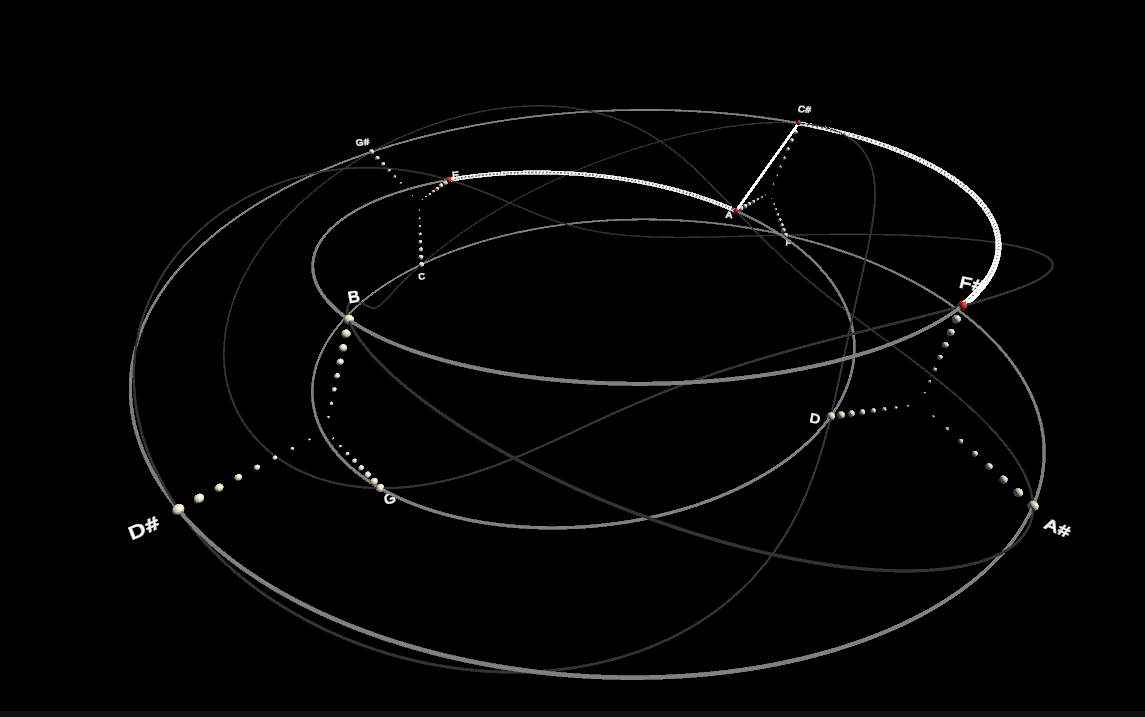
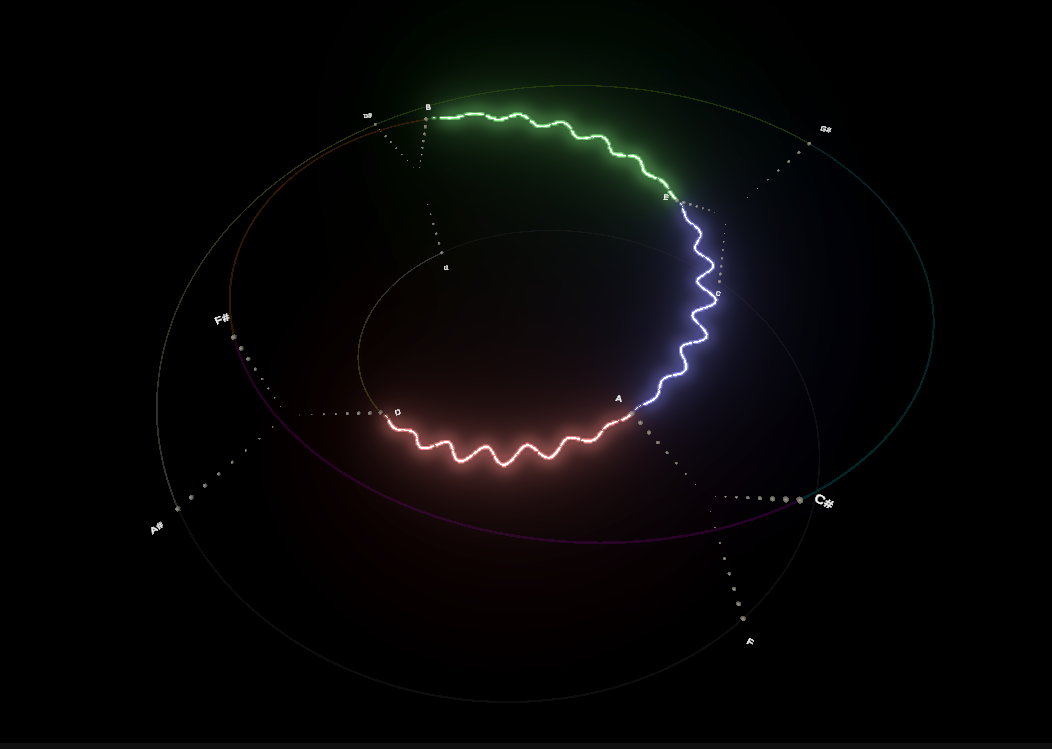
colors wip

diff --git a/Assets/Main.cs b/Assets/Main.cs
@@ -14,7 +14,7 @@ using Util;
 public class Main : MonoBehaviour
 {
     public Material BloomMat;
-    
+
     static readonly int Color1 = Shader.PropertyToID("_Color");
     public string midiPath;
 
@@ -23,14 +23,14 @@ public class Main : MonoBehaviour
     const int Tones = 12;
     const int Octaves = 8;
     const int Sides = 3;
-    const float EdgeLength = 0.67f;
+    const float EdgeLength = 1.2f;
     const float Rad = 1f;
     const int Sections = Tones / Sides;
 
     readonly List<Note> notes = new();
     readonly List<TextBox> noteTextLabels = new();
 
-    LineRenderer fifthsLineRenderer;
+    readonly List<LineRenderer> fifthsLineRenderer = new();
     LineRenderer chromaticLineRenderer;
 
     readonly Dictionary<ulong, Chord> chordLineRenderers = new();
@@ -39,12 +39,43 @@ public class Main : MonoBehaviour
 
     int currentKey = 0; // A
 
+    static Color darkGrey => new(0.2f, 0.2f, 0.2f);
+
+    readonly Color[] descendingFifthColors =
+    {
+        // order from key - 1, descending through fifths
+        // Major
+        Color.red,
+        // Transient
+        Color.yellow,
+        darkGrey,
+        darkGrey,
+        darkGrey,
+        Color.yellow,
+        Color.Lerp(Color.yellow, Color.green, 0.5f),
+        // Minor
+        Color.Lerp(Color.green, Color.blue, 0.5f),
+        Color.Lerp(Color.blue, Color.red, 0.5f),
+        Color.Lerp(Color.red, Color.yellow, 0.5f),
+        // Major
+        Color.green,
+        Color.blue
+    };
+
+    readonly Dictionary<int, int> fifthToColor = new();
     readonly Dictionary<int, int> scaleToFifths = new();
 
     CameraControl cameraControl;
 
     void Awake()
     {
+        int count = 7;
+        for (int i = Tones - 1; i >= 0; i--)
+        {
+            fifthToColor.Add(count, i);
+            count = Roll(count, -5);
+        }
+
         for (int j = 0; j < Octaves; j++)
         {
             // set the notes in 5th intervals evenly from 0 to 1 on the umbilical
@@ -78,13 +109,13 @@ public class Main : MonoBehaviour
             }
         }
 
-        Material fifthsMat = new(Shader.Find("Unlit/Color"))
+        for (int i = 0; i < Tones; i++)
         {
-            color = new Color(0.5f, 0.5f, 0.5f)
-        };
-        GameObject fifthsGo = new("fifths");
-        fifthsGo.transform.SetParent(transform, false);
-        fifthsLineRenderer = NewLineRenderer(fifthsGo, fifthsMat, .01f, true);
+            Material fifthsMat = new Material(Shader.Find("Legacy Shaders/Particles/Alpha Blended Premultiply"));
+            GameObject fifthsGo = new("fifths");
+            fifthsGo.transform.SetParent(transform, false);
+            fifthsLineRenderer.Add(NewLineRenderer(fifthsGo, fifthsMat, .01f, false));
+        }
 
         Material chromaticMat = new(Shader.Find("Unlit/Color"))
         {
@@ -116,21 +147,57 @@ public class Main : MonoBehaviour
 
     void SetUmbilic()
     {
-        List<Vector3> umbilicalList = new();
         List<Vector3> chromaticList = new();
+        const float resolution = 0.001f;
         const int ratio = Sides * 2 - 1;
-        for (float t = 0; t < 1; t += .001f)
+        for (float t = 0; t < 1; t += resolution)
         {
-            umbilicalList.Add(UmbilicTorus.PointAlongUmbilical(Sides, EdgeLength, Rad, t, Mathf.PI)); // natural 3 roll
             chromaticList.Add(UmbilicTorus.PointAlongUmbilical(Sides, EdgeLength, Rad, t, Mathf.PI, ratio)); // 5 roll
         }
 
-        fifthsLineRenderer.positionCount = umbilicalList.Count;
-        fifthsLineRenderer.SetPositions(umbilicalList.ToArray());
+        for (int i = 0; i < Tones; i++)
+        {
+            LineRenderer fifthsSegment = fifthsLineRenderer[i];
+            List<Vector3> subSection = new();
+            for (float t = (float)i / Tones; t < (float)(i + 1) / Tones; t += resolution)
+            {
+                subSection.Add(UmbilicTorus.PointAlongUmbilical(Sides, EdgeLength, Rad, t, Mathf.PI)); // natural 3 roll
+            }
+
+            fifthsSegment.positionCount = subSection.Count;
+            fifthsSegment.SetPositions(subSection.ToArray());
+
+            float lerp = .2f;
+            if (i is 7 or 8 or 11)
+            {
+                lerp = .3f;
+            }
+
+            Color color = Color.Lerp(Color.black, descendingFifthColors[i], lerp);
+
+            Color endColor = color;
+            if (i == 1)
+            {
+                endColor = darkGrey;
+            }
+            else if (i == 5)
+            {
+                color = darkGrey;
+                endColor = Color.Lerp(Color.black, Color.yellow, lerp);
+            }
+
+            const float alpha = 1.0f;
+            Gradient gradient = new();
+            gradient.SetKeys(
+                new[] { new GradientColorKey(color, 0.0f), new GradientColorKey(endColor, 1.0f) },
+                new[] { new GradientAlphaKey(alpha, 0.0f), new GradientAlphaKey(alpha, 1.0f) }
+            );
+            fifthsSegment.colorGradient = gradient;
+        }
 
         chromaticLineRenderer.positionCount = chromaticList.Count;
         chromaticLineRenderer.SetPositions(chromaticList.ToArray());
-        //chromaticLineRenderer.gameObject.SetActive(false);
+        chromaticLineRenderer.gameObject.SetActive(false);
 
         for (int j = 0; j < Octaves; j++)
         {
@@ -162,13 +229,15 @@ public class Main : MonoBehaviour
     /// </summary>
     void PlayKeys(List<Tuple<int, float>> keysAndAmplitudes)
     {
+        // from the input, sort all notes into octaves, fifths, and thirds
         List<ulong> playingOctaves = new();
         List<ulong> playingThirds = new();
         List<ulong> playingFifths = new();
         foreach ((int key, float amp) in keysAndAmplitudes)
         {
+            // update the amplitude to the current value in all cases
             notes[key].CurrentAmp = amp;
-            
+
             int baseKey = key % Tones;
             foreach (Tuple<int, float> otherKeyAndAmp in keysAndAmplitudes)
             {
@@ -194,6 +263,7 @@ public class Main : MonoBehaviour
             }
         }
 
+        // set all other notes to zero amplitude
         List<int> currentKeys = keysAndAmplitudes.Select(x => x.Item1).ToList();
         int count = 0;
         foreach (Note note in notes)
@@ -206,6 +276,7 @@ public class Main : MonoBehaviour
             count++;
         }
 
+        // determine chords to switch off from last update
         List<ulong> playing = playingOctaves.Concat(playingThirds).Concat(playingFifths).ToList();
         List<ulong> offList = chordLineRenderers.Keys.Where(oldKey => !playing.Contains(oldKey)).ToList();
 
@@ -215,19 +286,73 @@ public class Main : MonoBehaviour
             chordLineRenderers.Remove(toRemove);
         }
 
+        // create new chords
         foreach (ulong playKey in playingThirds)
         {
-            if (chordLineRenderers.ContainsKey(playKey)) continue;
             uint[] pair = Szudzik.uintSzudzik2tupleReverse(playKey);
             int key = (int)pair[0];
             int otherKey = (int)pair[1];
+            Note note1 = notes[key];
+            Note note2 = notes[otherKey];
+
+            float combinedAmplitude = note1.CurrentAmp + note2.CurrentAmp;
+            float intensity = combinedAmplitude * 1.5f;
+
+            bool pointingOut = Vector3.Magnitude(notes[key].transform.localPosition) <
+                               Vector3.Magnitude(notes[otherKey].transform.localPosition);
+
+            // sum all fifths below key and below otherKey and vote
+            int scaleOther = Roll(otherKey , pointingOut ? 5 : -5);
+            int scaleKey = Roll(key , pointingOut ? -5 : 5);
+
+            scaleOther %= Tones;
+            scaleKey %= Tones;
+
+            float otherSum = 0;
+            float thisSum = 0;
+            for (int i = 0; i < Octaves; i++)
+            {
+                otherSum += notes[scaleOther + i * Tones].CurrentAmp;
+                thisSum += notes[scaleKey + i * Tones].CurrentAmp;
+            }
+
+            Color calcColor = Color.white;
+            if (thisSum == 0 && otherSum == 0)
+            {
+                // default to inner (major) color
+                calcColor = pointingOut ? descendingFifthColors[fifthToColor[scaleKey]] : descendingFifthColors[fifthToColor[otherKey]];
+            }
+            else
+            {
+                float colorT = GetRatio(thisSum, otherSum);
+
+                calcColor = Color.Lerp(
+                    descendingFifthColors[fifthToColor[pointingOut ? scaleKey : Roll(scaleKey, -5)]],
+                    descendingFifthColors[fifthToColor[pointingOut ? Roll(scaleOther, -5) : scaleOther]],
+                    colorT);
+            }
+
+            Color color = Color.Lerp(
+                calcColor,
+                Color.white,
+                .3f) * Mathf.Pow(2, intensity); // whiten and intensify on HDR
+
+            if (chordLineRenderers.TryGetValue(playKey, out Chord lineRenderer))
+            {
+                // update chord color
+                lineRenderer.GetComponent<Renderer>().material.color = color;
+                continue;
+            }
 
             // draw thirds as simple lines
             GameObject chordGo = new("chord");
             LineRenderer chordRend = NewLineRenderer(chordGo, BloomMat, .015f, false);
             Chord newChord = chordGo.AddComponent<Chord>();
-            newChord.Init(notes[key], notes[otherKey], chordRend);
+            newChord.Init(note1, note2, chordRend);
             chordLineRenderers.Add(playKey, newChord);
+
+            // set chord color
+            chordRend.material.color = color;
         }
 
         foreach (ulong playKey in playingFifths)
@@ -241,8 +366,10 @@ public class Main : MonoBehaviour
             GameObject chordGo = new("chord");
             LineRenderer chordRend = NewLineRenderer(chordGo, BloomMat, .02f, false);
 
+            Note note1 = notes[key];
+            Note note2 = notes[otherKey];
             Chord newChord = chordGo.AddComponent<Chord>();
-            newChord.Init(notes[key], notes[otherKey], chordRend);
+            newChord.Init(note1, note2, chordRend);
             chordLineRenderers.Add(playKey, newChord);
 
             int min = Math.Min(scaleToFifths[key], scaleToFifths[otherKey]);
@@ -273,9 +400,43 @@ public class Main : MonoBehaviour
                     t,
                     Mathf.PI));
             }
-            
+
+            float combinedAmplitude = note1.CurrentAmp + note2.CurrentAmp;
+
+            // set color of fifth (it is always the same color, but intensity changes)
+            float intensity = combinedAmplitude * 1.5f;
+            Color color = Color.Lerp(
+                descendingFifthColors[scaleToFifths[otherKey]],
+                Color.white,
+                .3f) * Mathf.Pow(2, intensity); // whiten and intensify on HDR
+
+            chordRend.material.color = color;
+
             newChord.Fifth(fifthLine);
         }
+    }
+
+    static float GetRatio(float a, float b)
+    {
+        // Handle special cases
+        if (b == 0f && a != 0f)
+            return 0f;
+        if (a == 0f && b != 0f)
+            return 1f;
+
+        // General case: both a and b are positive
+        return b / (a + b);
+    }
+
+    static int Roll(int val, int interval)
+    {
+        val += interval;
+        return val switch
+        {
+            < 0 => val + Tones,
+            >= Tones => val - Tones,
+            _ => val
+        };
     }
 
     void UpdateText()
